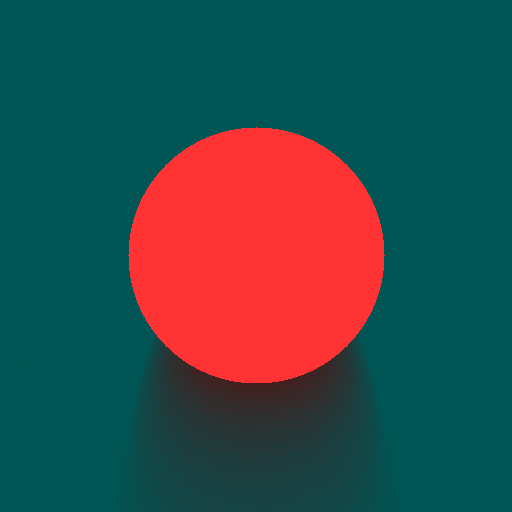
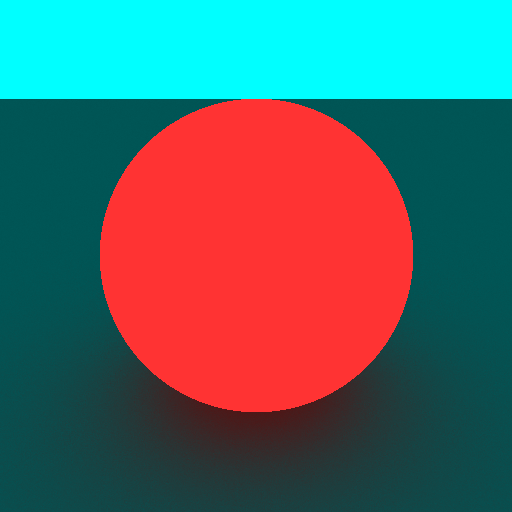
rendering works

diff --git a/irrad/src/main/java/org/irrad/geometry/DiffuseSampler.java b/irrad/src/main/java/org/irrad/geometry/DiffuseSampler.java
@@ -47,7 +47,7 @@ public class DiffuseSampler extends Sampler {
             ry = lerp((double) dy / divy, (double) (dy + 1) / divy, ry);
 
             final double r = Math.sqrt(rx);
-            final double theta = 2 * Math.PI * ry;
+            final double theta = 2.0 * Math.PI * ry;
 
             final double x = r * Math.cos(theta);
             final double y = r * Math.sin(theta);
@@ -56,10 +56,11 @@ public class DiffuseSampler extends Sampler {
 
             Vec3 updir = Math.abs(normal.y) > 0.5 ? new Vec3(1, 0, 0) : Vec3.up();
             Vec3 xdir = Vec3.cross(updir, normal).normalized();
-            updir = Vec3.cross(normal, updir);
+            updir = Vec3.cross(normal, xdir);
 
-            final Vec3 dir = Vec3.add(Vec3.mul(normal, zdir.z),
-                    Vec3.add(Vec3.mul(xdir, zdir.x), Vec3.mul(zdir.y, updir)));
+            final Vec3 dir = Vec3
+                    .add(Vec3.mul(normal, zdir.z), Vec3.add(Vec3.mul(xdir, zdir.x), Vec3.mul(zdir.y, updir)))
+                    .normalized();
 
             final Vec3 o = Vec3.add(origin, Vec3.mul(normal, 0.0001));
 

diff --git a/irrad/src/main/java/org/irrad/Renderer.java b/irrad/src/main/java/org/irrad/Renderer.java
@@ -60,7 +60,10 @@ class Renderer {
         job.intersection = mScene.cast(job.rayToCast);
         Vec3 origin = Vec3.add(job.intersection.ray.origin,
                 Vec3.mul(job.intersection.ray.direction, job.intersection.intersection.dist));
-        job.light = collect(origin, job.intersection.intersection.normal, depth);
+        if (job.intersection.shape.getMaterial().mAlbedo.length() > 0)
+            job.light = collect(origin, job.intersection.intersection.normal, depth);
+        else
+            job.light = Vec3.zero();
         job.rgb = Shader.shade(job.intersection, job.light);
     }
 

diff --git a/irrad/src/main/java/org/irrad/App.java b/irrad/src/main/java/org/irrad/App.java
@@ -11,7 +11,7 @@ import org.irrad.geometry.*;
 public class App {
     public static void main(String[] args) {
         Scene scene = Scene.BasicScene();
-        Camera camera = new Camera(new Vec3(0, 3, -3), new Vec3(0, 1, 0));
+        Camera camera = new Camera(new Vec3(2, 2, -2), new Vec3(0, 1, 0));
         Renderer renderer = new Renderer(scene, 2);
         Timer timer = new Timer();
         Image img = renderer.render(camera, 512, 512);

diff --git a/irrad/src/main/java/org/irrad/graphics/Material.java b/irrad/src/main/java/org/irrad/graphics/Material.java
@@ -3,8 +3,8 @@ package org.irrad.graphics;
 import org.irrad.geometry.*;
 
 public class Material {
-    Vec3 mAlbedo = new Vec3(0);
-    Vec3 mEmission = new Vec3(0);
+    public Vec3 mAlbedo = new Vec3(0);
+    public Vec3 mEmission = new Vec3(0);
     // Vec3 mSpecular;
 
     public Material() {
